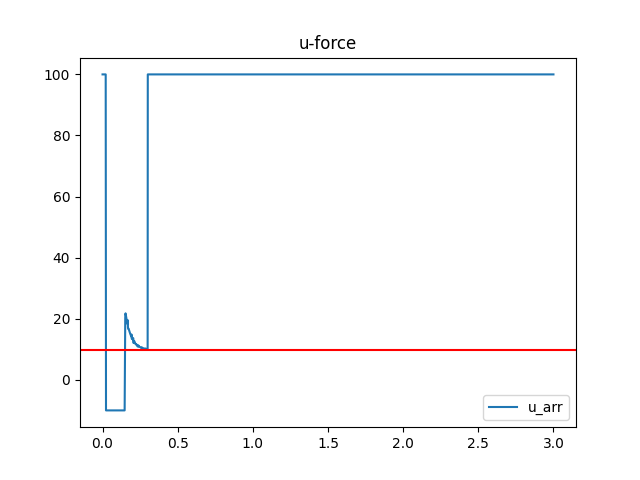
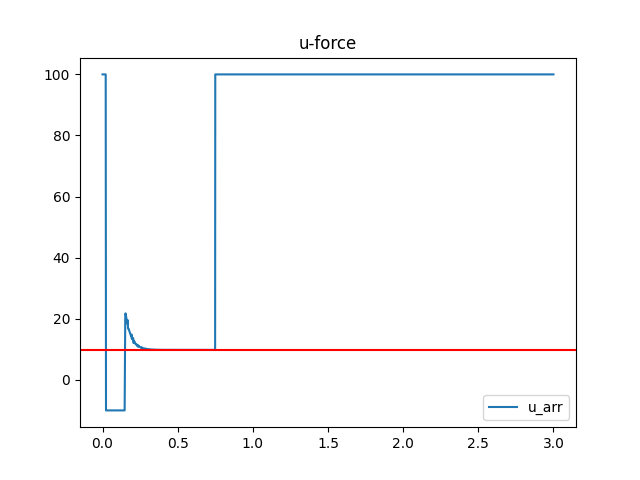
pictures

Changed region(s): [[0.3125, 0.1562, 0.3438, 0.7188], [0.2188, 0.1562, 0.25, 0.7188], [0.25, 0.125, 0.3125, 0.1562]]

diff --git a/src/examples/actuator_attack/quad_replay.py b/src/examples/actuator_attack/quad_replay.py
@@ -195,8 +195,8 @@ if __name__ == "__main__":
     from cpsim import Attack
 
     # bias = np.array([0, 0, 0, 0, 0, 0, 0, 0, 3, 0, 0.2, 0.1])
-    params={'start': 0, 'end': 10, 'bias': 0.1, 'step': 1}
-    bias_attack = Attack('replay', params, 300)
+    params={'start': 0, 'end': 1, 'bias': 100, 'step': 1}
+    bias_attack = Attack('replay', params, 3000)
     ip = quadrotor('test', dt, max_index)
     for i in range(0, max_index + 1):
         assert ip.cur_index == i
@@ -219,7 +219,7 @@ if __name__ == "__main__":
     ax1.plot(t_arr, y2_arr, label='y2_arr')
     ax1.plot(t_arr, ref2, label='ref2')
     ax1.legend()
-    plt.savefig('./figs/quadrotor-altitude.png')
+    plt.savefig('./figs/quadrotor-altitude-3000.png')
     plt.show()
 
     # 第二个图
@@ -228,5 +228,5 @@ if __name__ == "__main__":
     ax2.plot(t_arr, u_arr, label='u_arr')
     ax2.legend()
     ax2.axhline(9.80656, color='red', label='gravity')
-    plt.savefig('./figs/quadrotor-uforce.png')
+    plt.savefig('./figs/quadrotor-uforce-3000.png')
     plt.show()
